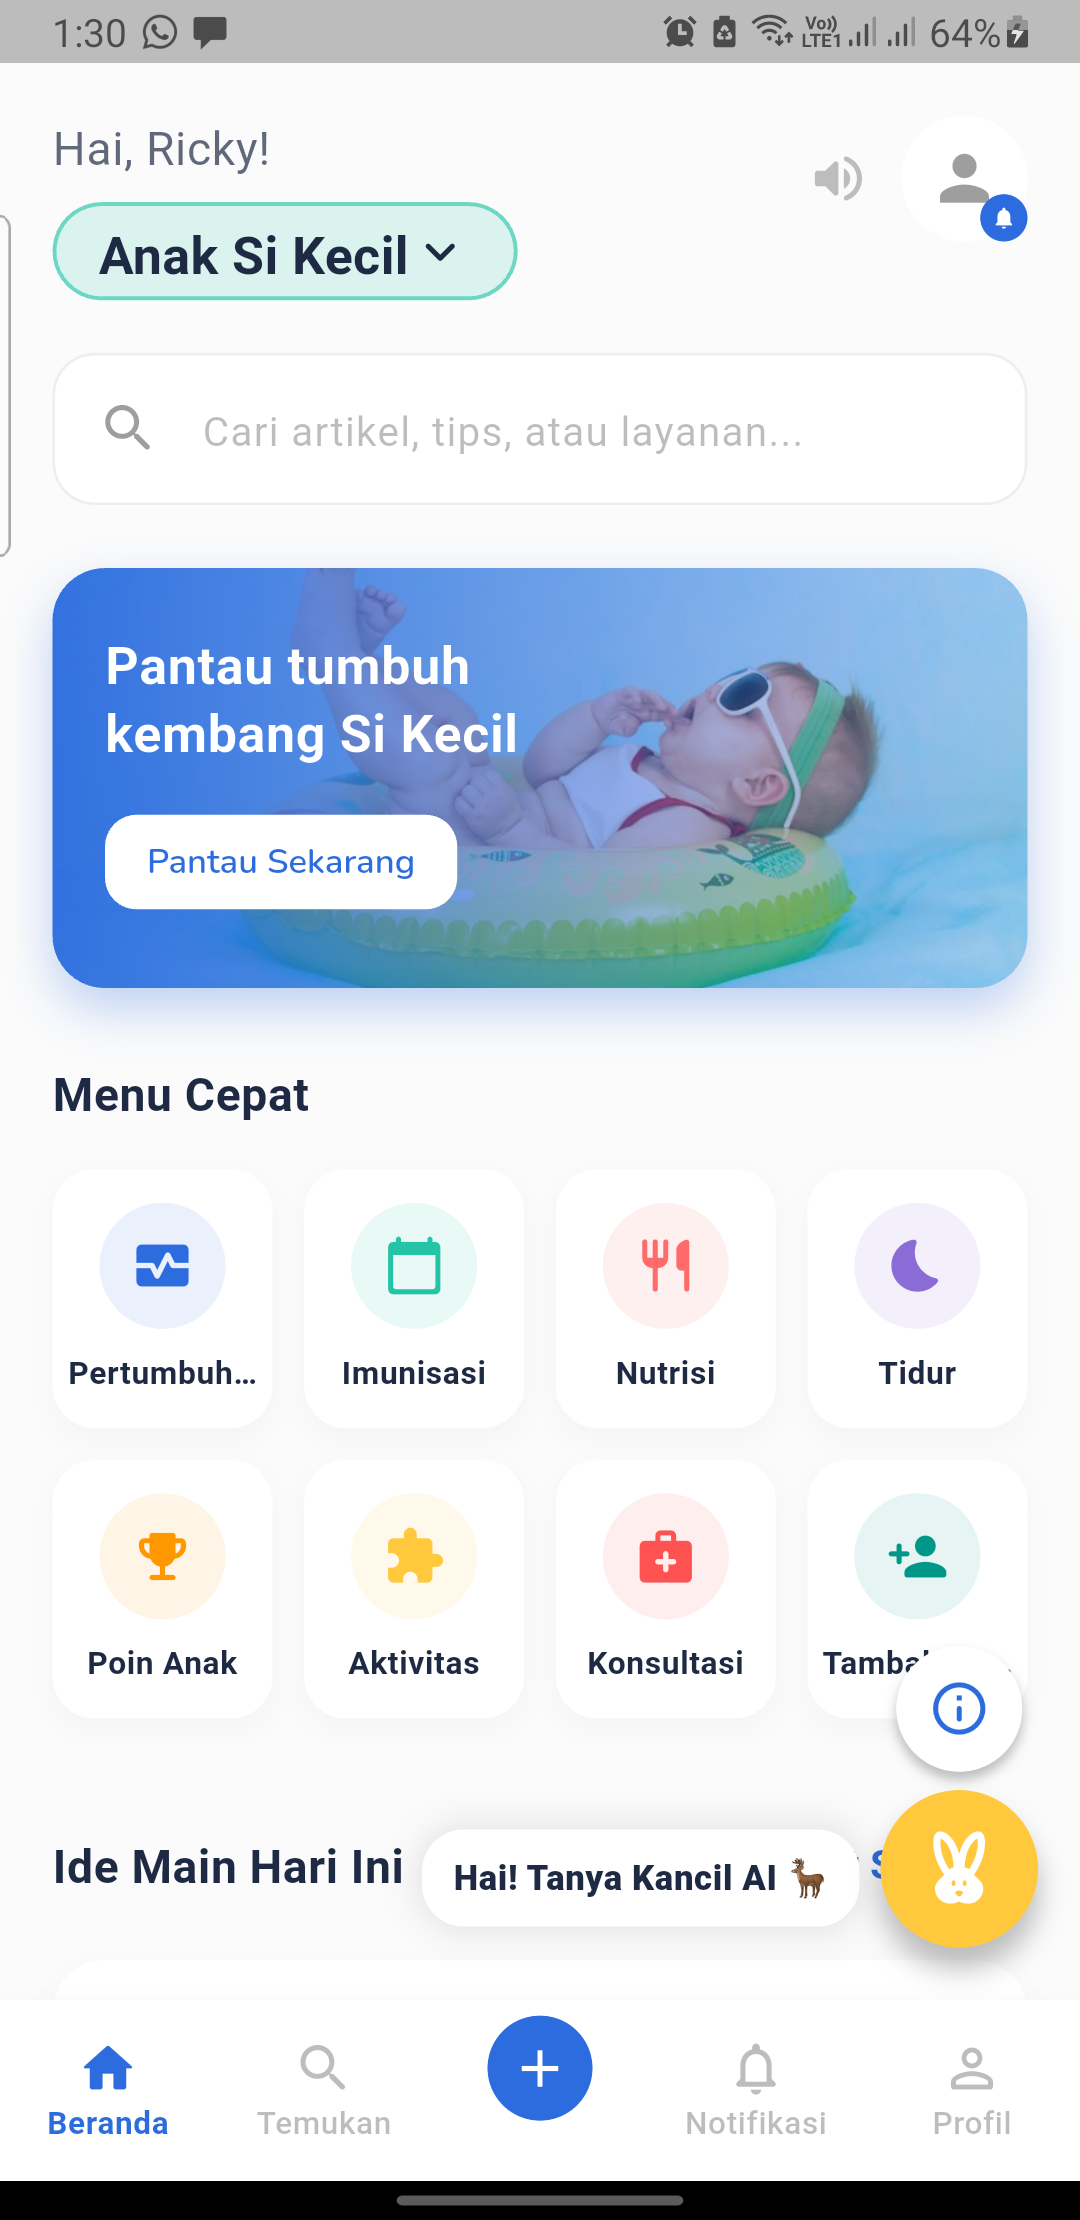
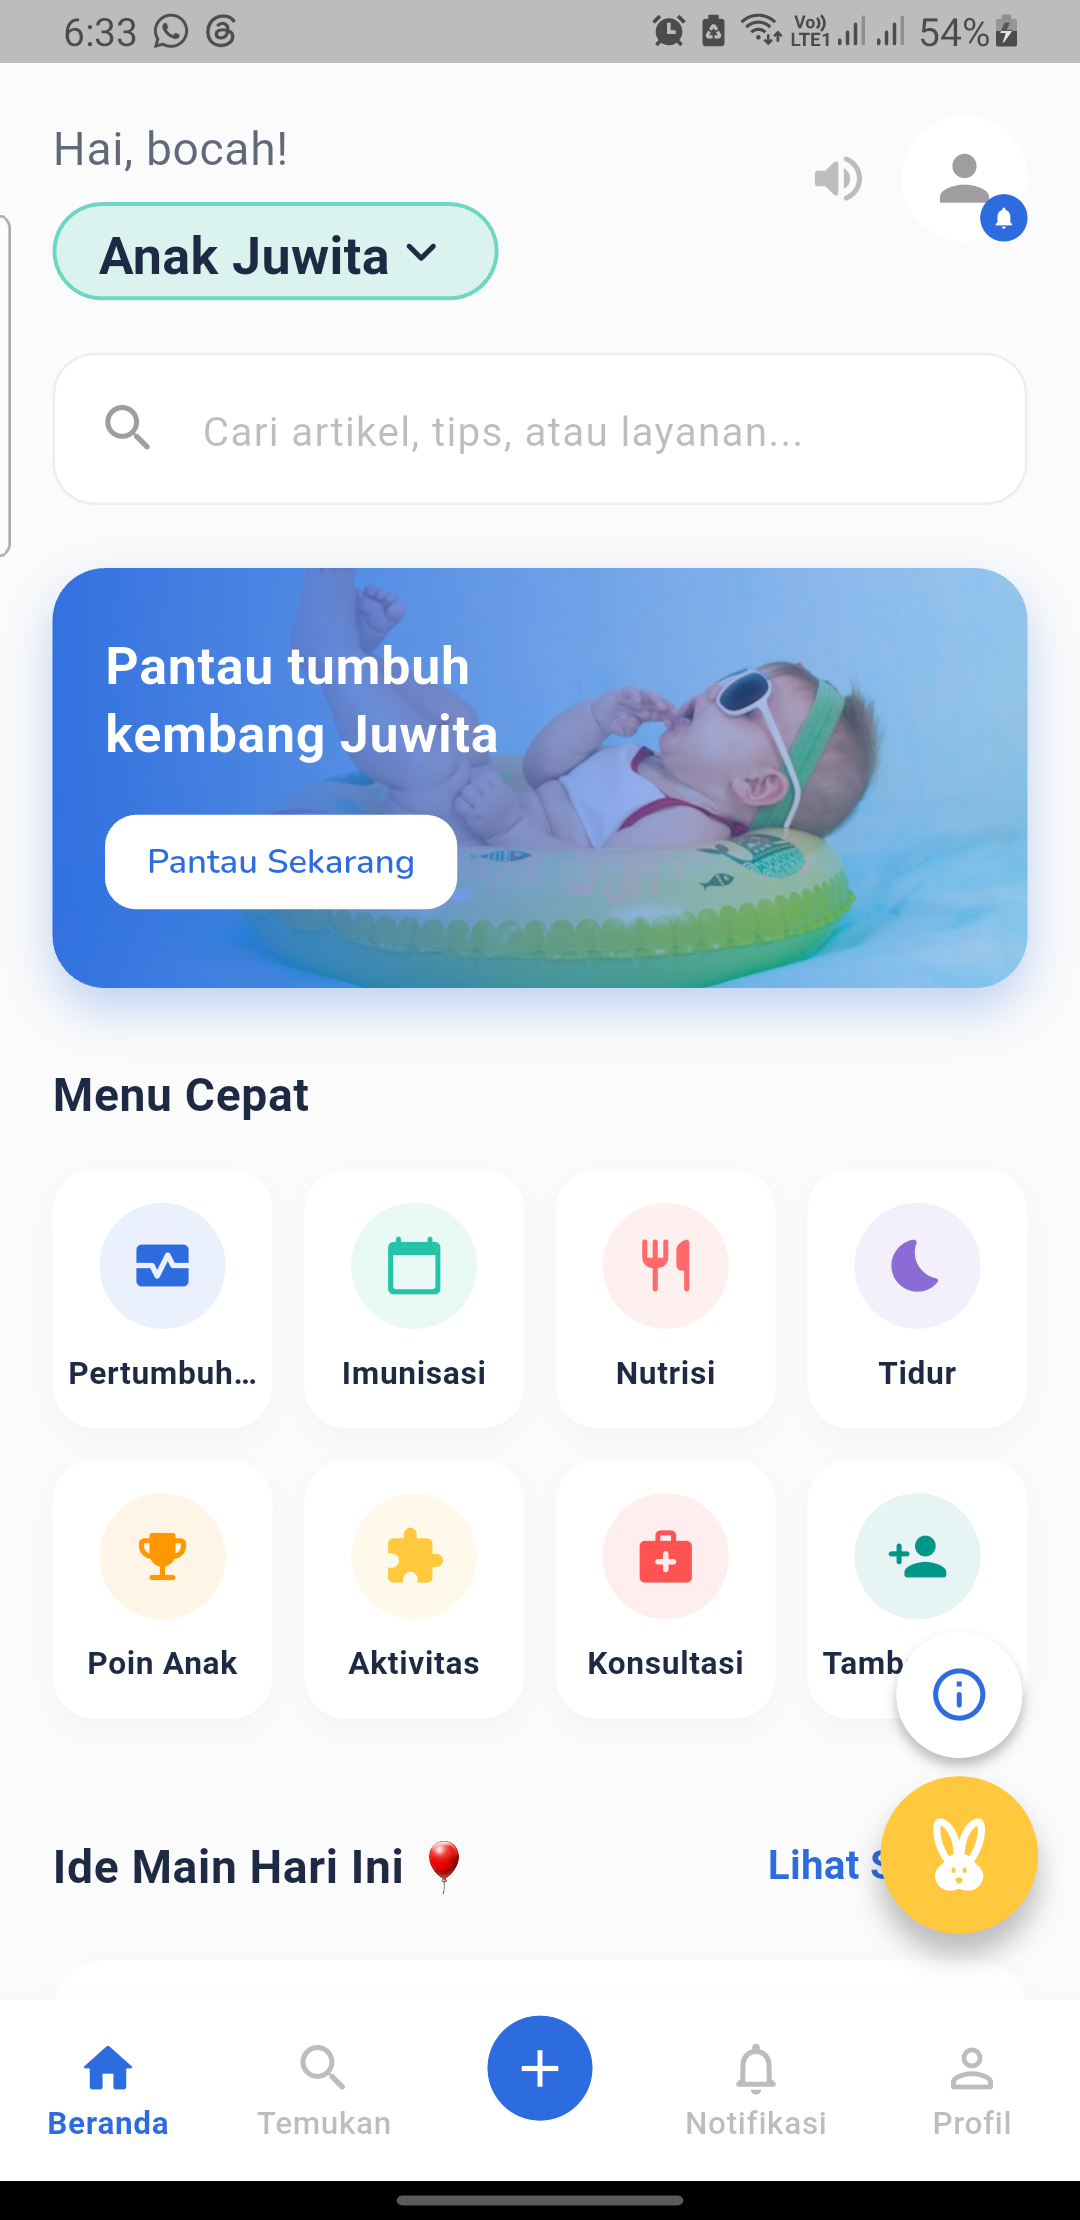
Update Ruang Bocah onboarding release and pricing

diff --git a/app/ruangbocah/page.tsx b/app/ruangbocah/page.tsx
@@ -75,9 +75,10 @@ export default function RuangBocahLandingPage() {
             <ScreenshotCard src="/ruangbocah/app-subscription-popup.png" alt="Pilihan aktivasi aplikasi Ruang Bocah" title="Pilih masa akses sesuai kebutuhan" description="Tersedia pilihan akses 6, 8, atau 12 bulan. Setelah pembayaran disetujui, seluruh fitur dapat digunakan sesuai masa aktif yang dipilih." />
             <ScreenshotCard src="/ruangbocah/app-growth.png" alt="Grafik pertumbuhan tinggi dan berat badan anak" title="Lihat perkembangan tinggi dan berat badan" description="Catatan tinggi dan berat badan disusun menjadi grafik sehingga orang tua lebih mudah melihat perubahan pertumbuhan si Kecil dari waktu ke waktu." />
             <ScreenshotCard src="/ruangbocah/app-doctors.png" alt="Daftar dokter spesialis anak Ruang Bocah" title="Tanya langsung kepada dokter anak" description="Pilih dokter yang tersedia, ceritakan keluhan si Kecil, dan simpan percakapan agar dapat dibaca kembali saat dibutuhkan." />
-            <ScreenshotCard src="/ruangbocah/app-games.png" alt="Pusat permainan edukatif Ruang Bocah" title="Belajar melalui permainan sederhana" description="Pecah Balon membantu melatih koordinasi mata dan tangan. Cocok Bentuk, kartu hewan, dan permainan lainnya membantu anak mengenal bentuk, melatih ingatan, serta menjaga fokus." />
+            <ScreenshotCard src="/ruangbocah/app-games.png" alt="Permainan Domba Awan di Ruang Bocah" title="Belajar merawat lewat Domba Awan" description="Anak memilih domba, merawatnya tahap demi tahap, mengumpulkan wol, dan membuat aksesori. Setiap level melatih urutan kegiatan, koordinasi tangan, dan tanggung jawab sederhana." />
             <ScreenshotCard src="/ruangbocah/app-wallet-qris.png" alt="Pembayaran QRIS di aplikasi Ruang Bocah" title="Bayar dengan QRIS secara mudah" description="Pilih paket, pindai QRIS, lalu kirim bukti pembayaran melalui WhatsApp. Pembayaran akan dicatat pada akun yang digunakan." />
-            <ScreenshotCard src="/ruangbocah/app-onboarding.png" alt="Panduan fitur pertama kali Ruang Bocah" title="Panduan singkat saat pertama masuk" description="Petunjuk singkat membantu orang tua mengenal cara mencatat pertumbuhan, berkonsultasi dengan dokter, memakai Kancil AI, memilih permainan, dan mengelola profil anak." />
+            <ScreenshotCard src="/ruangbocah/app-onboarding.png" alt="Panduan fitur pertama kali Ruang Bocah" title="Dipandu sejak pertama masuk" description="Wizard membantu orang tua membuat profil si Kecil terlebih dahulu, lalu menyorot langsung menu profil, pertumbuhan, pencatatan harian, konsultasi, aktivitas, dan Kancil AI satu per satu." />
+            <ScreenshotCard src="/ruangbocah/app-parent-reward.png" alt="Hadiah permainan anak di Ruang Bocah" title="Apresiasi progres bermain anak" description="Setelah menyelesaikan aktivitas, anak memperoleh hadiah visual. Orang tua dapat melihat progres dan memberi semangat untuk melanjutkan kebiasaan baik." />
             <ScreenshotCard src="/ruangbocah/app-flashcards.png" alt="Flashcard hewan Ruang Bocah" title="Kenalkan berbagai hewan kepada anak" description="Gambar berukuran besar, nama, dan suara membantu anak mengenali 16 jenis hewan sambil menambah kosakata dengan cara yang menyenangkan." />
             <ScreenshotCard src="/ruangbocah/app-rabbit-run.png" alt="Permainan Kelinci Lari Ruang Bocah" title="Latih fokus lewat Kelinci Lari" description="Anak membantu kelinci melompati rintangan. Permainan ini melatih perhatian, ketepatan waktu, dan koordinasi tangan secara bertahap." />
             <ScreenshotCard src="/ruangbocah/app-articles.png" alt="Artikel pengasuhan Ruang Bocah" title="Bacaan praktis untuk mendampingi anak" description="Temukan panduan tentang pertumbuhan, MPASI, tidur, imunisasi, aktivitas, perkembangan anak, dan kesehatan gigi yang dirangkum dari sumber tepercaya." />
@@ -108,13 +109,13 @@ export default function RuangBocahLandingPage() {
           <div className="bg-purple-700 p-10 text-white">
             <p className="text-sm font-bold uppercase tracking-widest text-purple-200">Premium Membership</p>
             <h2 className="mt-4 text-3xl font-black">Lebih lengkap bersama si Kecil</h2>
-            <div className="mt-8 text-5xl font-black">Mulai Rp 99K<span className="text-lg font-normal text-purple-200"> /6 bulan</span></div>
-            <p className="mt-3 text-sm text-purple-100">Pilih 6 bulan + 80 koin, 8 bulan + 120 koin, atau promo 12 bulan + 180 koin.</p>
+            <div className="mt-8 text-5xl font-black">Mulai Rp 99K<span className="text-lg font-normal text-purple-200"> /3 bulan</span></div>
+            <p className="mt-3 text-sm text-purple-100">Pilih 3 bulan + 50 koin, 6 bulan + 100 koin, atau 12 bulan + 150 koin.</p>
           </div>
           <div className="p-10">
             <h3 className="text-xl font-bold">Yang Anda dapatkan</h3>
             <div className="mt-6 grid gap-4 text-sm text-slate-600 sm:grid-cols-2">
-              {['6 bulan Rp99K', '8 bulan Rp149K', '12 bulan Rp169K (dari Rp199K)', 'Bonus hingga 180 koin', 'Akses telemedis', 'Metrik pertumbuhan', 'Pusat bermain edukatif'].map((item) => <div key={item} className="flex gap-2"><span className="text-orange-500">★</span>{item}</div>)}
+              {['3 bulan Rp99K + 50 koin', '6 bulan Rp149K + 100 koin', '12 bulan Rp180K + 150 koin', 'Top up mulai 50 koin', 'Akses telemedis', 'Metrik pertumbuhan', 'Pusat bermain edukatif'].map((item) => <div key={item} className="flex gap-2"><span className="text-orange-500">★</span>{item}</div>)}
             </div>
             <Link href="/ruangbocah/subscribe" className="mt-8 block rounded-xl bg-purple-700 px-6 py-4 text-center font-bold text-white transition hover:bg-purple-800">
               Pilih Paket & Bayar via QRIS

diff --git a/app/api/ruangbocah/consultations/route.ts b/app/api/ruangbocah/consultations/route.ts
@@ -1,0 +1,69 @@
+import { NextRequest, NextResponse } from 'next/server'
+import { createRuangBocahAdminClient } from '@/lib/ruangbocah/admin'
+
+export const runtime = 'edge'
+
+export async function POST(request: NextRequest) {
+  try {
+    const token = request.headers.get('authorization')?.replace(/^Bearer\s+/i, '')
+    if (!token) return NextResponse.json({ error: 'Sesi login tidak ditemukan' }, { status: 401 })
+
+    const admin = createRuangBocahAdminClient()
+    const { data: authData, error: authError } = await admin.auth.getUser(token)
+    if (authError || !authData.user) {
+      return NextResponse.json({ error: 'Sesi login tidak valid' }, { status: 401 })
+    }
+
+    const body = await request.json() as { doctorId?: string; price?: number; welcomeMessage?: string }
+    const doctorId = body.doctorId?.trim()
+    if (!doctorId) return NextResponse.json({ error: 'Dokter atau konsultan wajib dipilih' }, { status: 400 })
+
+    const { data: doctor, error: doctorError } = await admin
+      .from('doctor_profiles')
+      .select('price_in_coins')
+      .eq('id', doctorId)
+      .single()
+    if (doctorError || !doctor) return NextResponse.json({ error: 'Dokter atau konsultan tidak ditemukan' }, { status: 404 })
+
+    const price = Number(doctor.price_in_coins)
+    if (!Number.isInteger(price) || price <= 0 || price !== Number(body.price)) {
+      return NextResponse.json({ error: 'Biaya konsultasi telah berubah. Silakan muat ulang.' }, { status: 409 })
+    }
+
+    const { data: sessionId, error: sessionError } = await admin.rpc('mulai_sesi_konsultasi', {
+      p_parent_id: authData.user.id,
+      p_doctor_id: doctorId,
+      p_cost: price,
+      p_welcome_msg: body.welcomeMessage ?? 'Silakan ceritakan keluhan atau pertanyaan Anda terkait kesehatan si Kecil.',
+    })
+    if (sessionError) throw sessionError
+
+    // RPC lama mengkreditkan 100% biaya. Potong komisi aplikasi 10% sehingga
+    // dokter/konsultan menerima tepat 90% (dibulatkan ke bawah dalam koin utuh).
+    const doctorShare = Math.floor(price * 0.9)
+    const platformFee = price - doctorShare
+    for (let attempt = 0; attempt < 3; attempt++) {
+      const { data: profile, error: profileError } = await admin
+        .from('profiles')
+        .select('coin_balance')
+        .eq('id', doctorId)
+        .single()
+      if (profileError) throw profileError
+      const currentBalance = Number(profile.coin_balance ?? 0)
+      const { data: updated, error: updateError } = await admin
+        .from('profiles')
+        .update({ coin_balance: currentBalance - platformFee })
+        .eq('id', doctorId)
+        .eq('coin_balance', currentBalance)
+        .select('id')
+      if (updateError) throw updateError
+      if (updated?.length) {
+        return NextResponse.json({ sessionId, price, doctorShare, platformFee })
+      }
+    }
+    throw new Error('Pembagian pendapatan konsultasi gagal diproses')
+  } catch (error) {
+    const message = error instanceof Error ? error.message : 'Konsultasi gagal dimulai'
+    return NextResponse.json({ error: message }, { status: 500 })
+  }
+}

diff --git a/app/ruangbocah/subscribe/page.tsx b/app/ruangbocah/subscribe/page.tsx
@@ -11,9 +11,9 @@ import {
 } from '@/lib/ruangbocah/downloads'
 
 const PLANS = [
-  { code: 'ACCESS6', label: '6 bulan', amount: 99_000, coins: 80 },
-  { code: 'ACCESS8', label: '8 bulan', amount: 149_000, coins: 120 },
-  { code: 'ACCESS12', label: '12 bulan', amount: 169_000, coins: 180, oldPrice: 199_000 },
+  { code: 'ACCESS6', label: 'Paket Hemat · 3 bulan', amount: 99_000, coins: 50 },
+  { code: 'ACCESS8', label: 'Paket Keluarga · 6 bulan', amount: 149_000, coins: 100 },
+  { code: 'ACCESS12', label: 'Paket Setahun · 12 bulan', amount: 180_000, coins: 150 },
 ]
 
 function SubscribeContent() {
@@ -70,7 +70,6 @@ function SubscribeContent() {
               {PLANS.map((plan) => (
                 <button key={plan.code} type="button" onClick={() => setSelectedCode(plan.code)} className={`rounded-2xl border p-4 text-left transition ${selectedCode === plan.code ? 'border-purple-600 bg-purple-50 ring-2 ring-purple-100' : 'border-slate-200 hover:border-purple-300'}`}>
                   <span className="block text-sm font-black text-purple-700">{plan.label}</span>
-                  {plan.oldPrice && <span className="mt-1 block text-xs text-slate-400 line-through">Rp {plan.oldPrice.toLocaleString('id-ID')}</span>}
                   <span className="block font-bold">Rp {plan.amount.toLocaleString('id-ID')}</span>
                   <span className="mt-1 block text-xs text-slate-500">Bonus {plan.coins} koin</span>
                 </button>
@@ -91,7 +90,7 @@ function SubscribeContent() {
               <div className="sm:col-span-2"><Field label="Transaction ID" value={transactionId} onChange={setTransactionId} placeholder="ID transaksi dari menu Dompet" /></div>
             </div>
             <a href={whatsappUrl} target="_blank" rel="noopener noreferrer" className="mt-5 block rounded-xl bg-emerald-600 px-6 py-4 text-center font-bold text-white transition hover:bg-emerald-700">Konfirmasi & Lampirkan Bukti via WhatsApp</a>
-            <p className="mt-4 text-xs leading-relaxed text-slate-500">Masa aktif ditambahkan otomatis setelah admin menyetujui bukti pembayaran. Top up tersedia Rp20.000 untuk 20 koin dan Rp49.000 untuk 80 koin di menu Dompet aplikasi.</p>
+            <p className="mt-4 text-xs leading-relaxed text-slate-500">Masa aktif ditambahkan otomatis setelah admin menyetujui bukti pembayaran. Top up tersedia Rp69.000 untuk 50 koin dan Rp90.000 untuk 100 koin di menu Dompet aplikasi.</p>
           </section>
         </div>
       </div>

diff --git a/lib/ruangbocah/admin.ts b/lib/ruangbocah/admin.ts
@@ -5,23 +5,23 @@ export const RUANG_BOCAH_ADMIN_WA = '6285815999953'
 export const RUANG_BOCAH_PACKAGES = {
   ACCESS6: {
     code: 'ACCESS6',
-    name: 'Akses Ruang Bocah 6 Bulan',
+    name: 'Paket Hemat Ruang Bocah 3 Bulan',
     amount: 99_000,
-    coinBonus: 80,
-    premiumDays: 180,
+    coinBonus: 50,
+    premiumDays: 90,
   },
   ACCESS8: {
     code: 'ACCESS8',
-    name: 'Akses Ruang Bocah 8 Bulan',
+    name: 'Paket Keluarga Ruang Bocah 6 Bulan',
     amount: 149_000,
-    coinBonus: 120,
-    premiumDays: 240,
+    coinBonus: 100,
+    premiumDays: 180,
   },
   ACCESS12: {
     code: 'ACCESS12',
     name: 'Akses Ruang Bocah 12 Bulan',
-    amount: 169_000,
-    coinBonus: 180,
+    amount: 180_000,
+    coinBonus: 150,
     premiumDays: 365,
   },
   COIN20: {
@@ -57,14 +57,14 @@ export const RUANG_BOCAH_PACKAGES = {
   COIN50: {
     code: 'COIN50',
     name: 'Top Up 50 Koin Ruang Bocah',
-    amount: 49_000,
+    amount: 69_000,
     coinBonus: 50,
     premiumDays: 0,
   },
   COIN100: {
     code: 'COIN100',
     name: 'Top Up 100 Koin Ruang Bocah',
-    amount: 95_000,
+    amount: 90_000,
     coinBonus: 100,
     premiumDays: 0,
   },
@@ -85,6 +85,7 @@ export const RUANG_BOCAH_PACKAGES = {
 } as const
 
 export const RUANG_BOCAH_ACCESS_CODES = ['ACCESS6', 'ACCESS8', 'ACCESS12', 'INITIAL_ACCESS', 'PREMIUM30'] as const
+export const RUANG_BOCAH_PURCHASABLE_CODES = ['ACCESS6', 'ACCESS8', 'ACCESS12', 'COIN50', 'COIN100'] as const
 
 export type RuangBocahPackageCode = keyof typeof RUANG_BOCAH_PACKAGES
 

diff --git a/lib/ruangbocah/downloads.ts b/lib/ruangbocah/downloads.ts
@@ -1,16 +1,16 @@
-export const RUANG_BOCAH_VERSION = '1.0.0'
+export const RUANG_BOCAH_VERSION = '1.0.1'
 
 const RELEASE_BASE_URL =
   'https://uwuooxmtclcskrrwptyo.supabase.co/storage/v1/object/public/ruang-bocah-releases'
 
 export const RUANG_BOCAH_ANDROID_DOWNLOAD_URL =
-  `${RELEASE_BASE_URL}/Ruang-Bocah-Android-v1.0.0-arm64.apk`
+  `${RELEASE_BASE_URL}/Ruang-Bocah-Android-v1.0.1-arm64.apk`
 
 export const RUANG_BOCAH_ANDROID_32_DOWNLOAD_URL =
-  `${RELEASE_BASE_URL}/Ruang-Bocah-Android-v1.0.0-armv7.apk`
+  `${RELEASE_BASE_URL}/Ruang-Bocah-Android-v1.0.1-armv7.apk`
 
 export const RUANG_BOCAH_ANDROID_SHA256 =
[2 lines of base64/hex data omitted]
 
 export const RUANG_BOCAH_ANDROID_32_SHA256 =
[2 lines of base64/hex data omitted]

diff --git a/app/api/ruangbocah/manual-transactions/route.ts b/app/api/ruangbocah/manual-transactions/route.ts
@@ -6,6 +6,7 @@ import {
   RUANG_BOCAH_ADMIN_WA,
   RUANG_BOCAH_ACCESS_CODES,
   RUANG_BOCAH_PACKAGES,
+  RUANG_BOCAH_PURCHASABLE_CODES,
 } from '@/lib/ruangbocah/admin'
 
 export const runtime = 'edge'
@@ -109,6 +110,9 @@ export async function POST(request: Request) {
     const packageCode = body.packageCode
     if (!isRuangBocahPackageCode(packageCode)) {
       return NextResponse.json({ error: 'Paket tidak valid' }, { status: 400 })
+    }
+    if (!(RUANG_BOCAH_PURCHASABLE_CODES as readonly string[]).includes(packageCode)) {
+      return NextResponse.json({ error: 'Paket ini sudah tidak tersedia' }, { status: 400 })
     }
 
     const packageInfo = RUANG_BOCAH_PACKAGES[packageCode]
